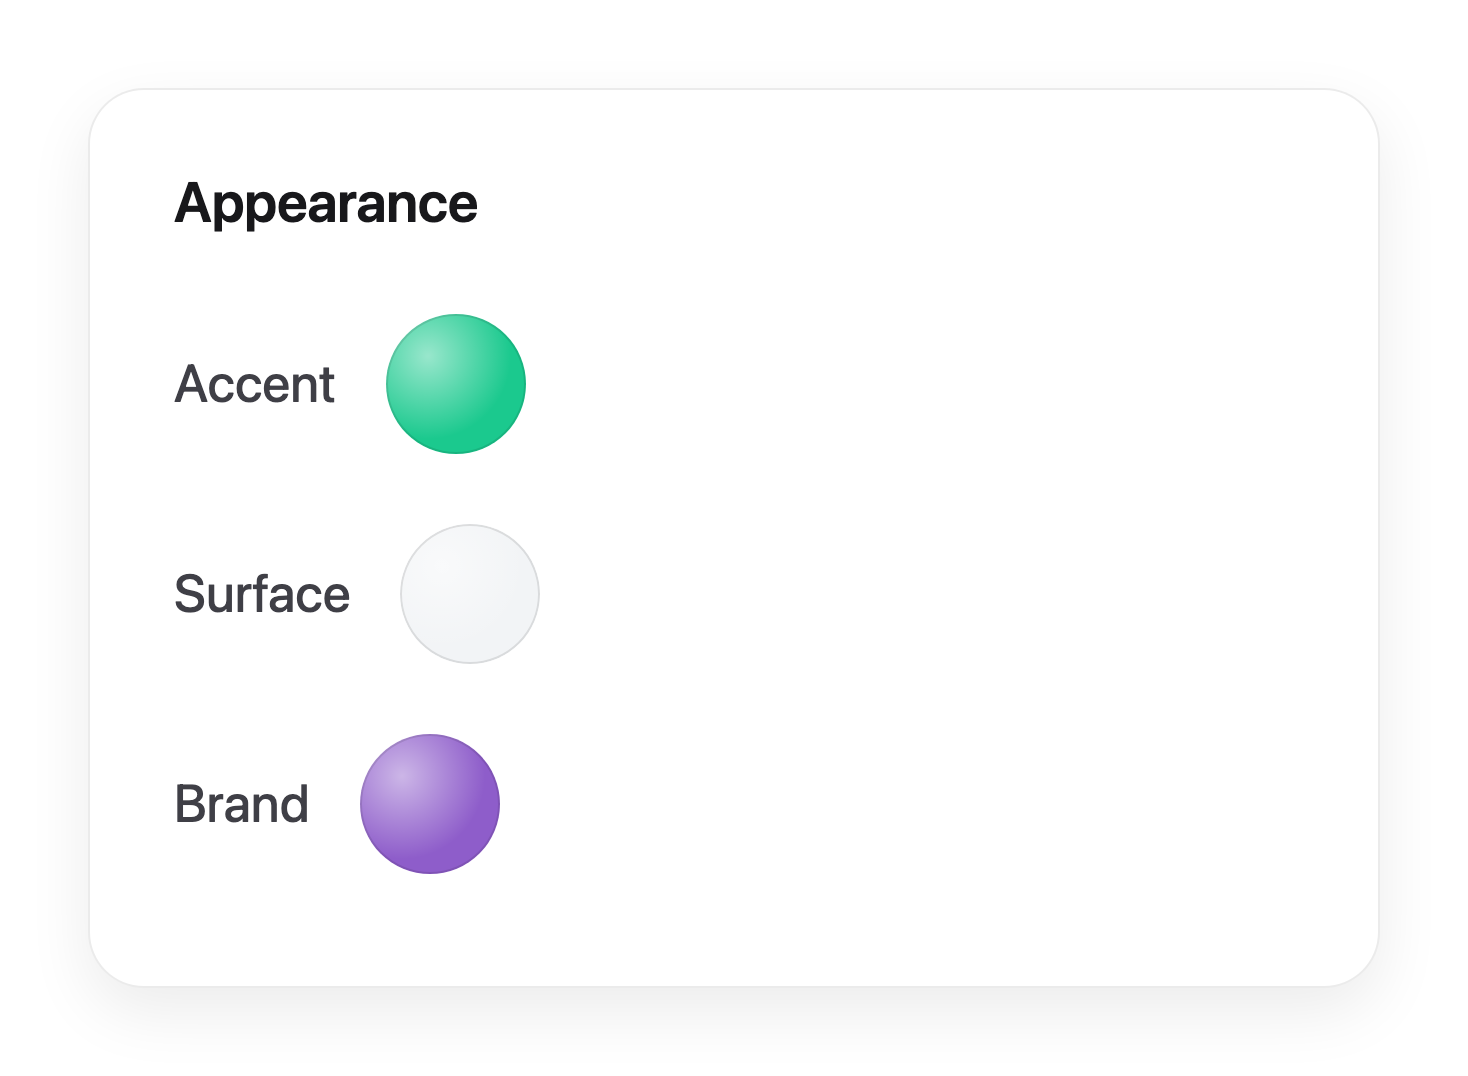
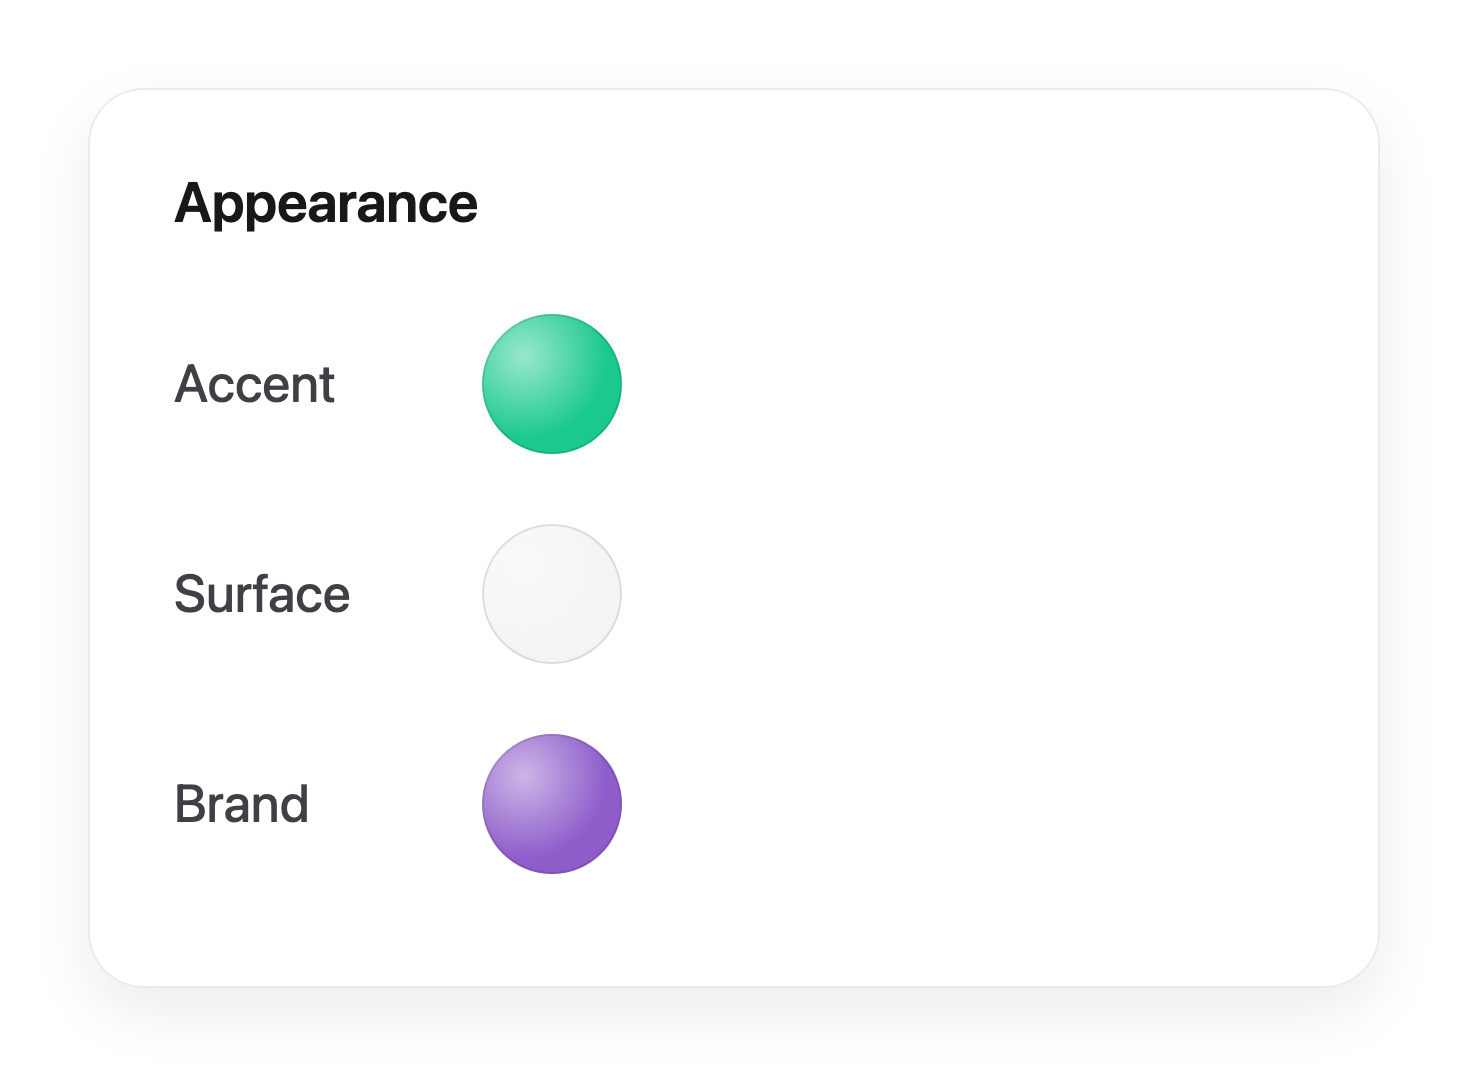
feat(docs): align the control column, and five plate variations
The rows were a flex label and a swatch, so labels of different lengths put
every swatch at a different x. A fixed label column lines them up — a column of
controls that does not align is the first thing the eye catches, and it was in
every shot.

Five variations on the inverted-gradient plate, differing only in how present
the sheet is: baseline, tighter, clearer, near-solid, and no sheet at all with
a soft bloom doing the grouping instead.

Changed region(s): [[0.2452, 0.6747, 0.4292, 0.8281], [0.2452, 0.276, 0.4292, 0.4294]]

diff --git a/playground/src/Demo.vue b/playground/src/Demo.vue
@@ -110,13 +110,18 @@ html.bare .stage {
   letter-spacing: -0.01em;
 }
 
-/* Swatch first. With the trigger against the card's right edge the tray has
-   nowhere to open into and gets shifted back across the card; from the left it
-   opens cleanly into the space beside it. */
+/**
+ * A fixed label column rather than a flex gap. Labels of different lengths put
+ * each swatch at a different x, and a column of controls that does not line up
+ * is the first thing the eye catches.
+ *
+ * Swatch after the label, not at the card's right edge: from the right the tray
+ * has nowhere to open into and gets shifted back across the card.
+ */
 .row {
-  display: flex;
+  display: grid;
+  grid-template-columns: 5.5rem auto;
   align-items: center;
-  gap: 0.875rem;
   padding: 0.5rem 0;
 }
 
